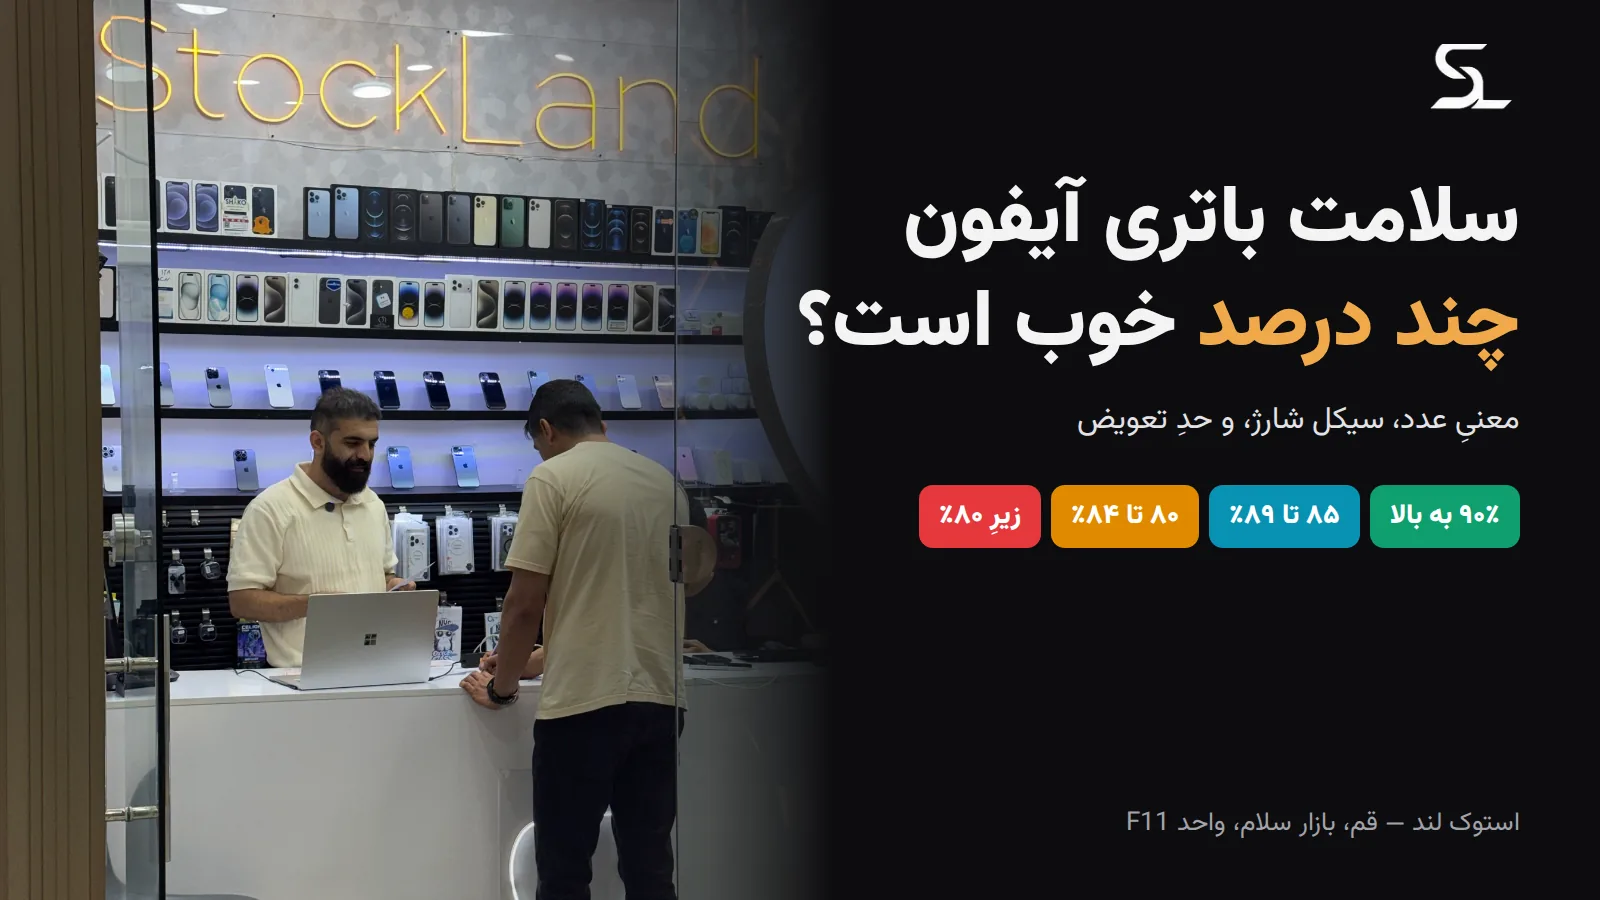
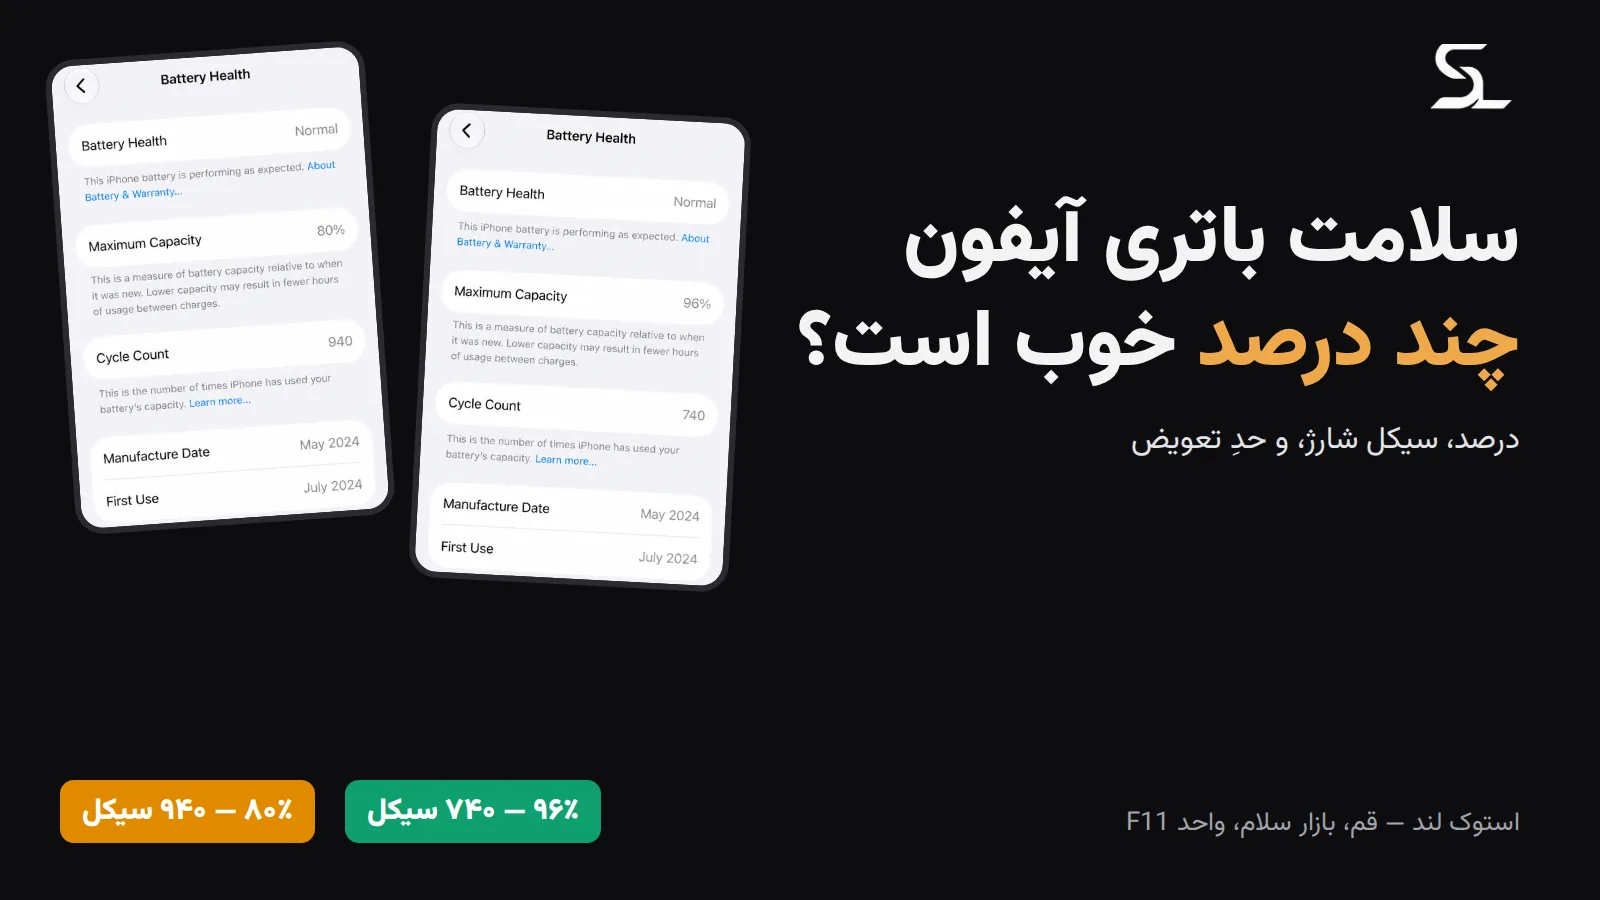
stland-home 1.72.1: عکسهای تازهی مقالهی سلامت باتری
Claude-Session: https://claude.ai/code/session_01BaUq8HkURtmYMZrPR7y34Y

diff --git a/wp-content/plugins/stland-home/includes/posts.php b/wp-content/plugins/stland-home/includes/posts.php
@@ -113,7 +113,8 @@ const STLH_POSTS = [
 			'model'   => [ 'file' => 'iphone-sealed-active-model.webp', 'alt' => 'حرف اول شماره مدل آیفون؛ M نو، F بازسازیشده، N جایگزین، P سفارشی' ],
 		],
 	],
-	// برنامهی محتوا، روزِ ۵ (۲۸ مهر ۱۴۰۵، یک روز زودتر؛ روزِ ۴ بازبینیِ نقشهی گوگل بود): دو عکسِ فروشگاه از صاحب فروشگاه
+	// برنامهی محتوا، روزِ ۵ (۲۸ مهر ۱۴۰۵، یک روز زودتر؛ روزِ ۴ بازبینیِ نقشهی گوگل بود). عکسها (همان روز، صاحب فروشگاه: «عکسها
+	// ارتباطی ندارند»): دو صفحهی «سلامت باتری» (۹۶٪ و ۸۰٪ با سیکل) و دفترچهی سلامت با باتریِ تعویضی، بهجای دو عکسِ فروشگاه از صاحب فروشگاه
 	// («از تصویر استفاده کن، بلر نکن» — رضایتِ خودش؛ مشتری پشت به دوربین است) و جدولِ درصدها که خودمان ساختیم. عددهای
 	// فنی (مرزِ ۸۰٪، ۵۰۰ و ۱۰۰۰ سیکل) از راهنمای اپل؛ ادعای فروشگاه فقط آنچه در دفترچهی سلامت و کارت دیده میشود.
 	'iphone-battery-health' => [
@@ -127,10 +128,10 @@ const STLH_POSTS = [
 			'desc'  => 'سلامت باتری آیفون چند درصد خوب است؟ ۹۰٪ به بالا عالی، ۸۵ تا ۸۹ خوب، ۸۰ تا ۸۴ قابل قبول، زیر ۸۰٪ تعویض. سیکل شارژ، باتری تعویضی و نکتههای خرید کارکرده.',
 			'kw'    => 'سلامت باتری آیفون',
 		],
-		'thumb'    => [ 'file' => 'iphone-battery-health-hero.webp', 'alt' => 'سلامت باتری آیفون چند درصد خوب است؛ استوک لند قم' ],
+		'thumb'    => [ 'file' => 'iphone-battery-health-hero.webp', 'alt' => 'سلامت باتری آیفون ۹۶ و ۸۰ درصد با سیکل شارژ در تنظیمات' ],
 		'images'   => [
 			'scale' => [ 'file' => 'iphone-battery-health-scale.webp', 'alt' => 'جدول سلامت باتری آیفون؛ ۹۰ به بالا عالی تا زیر ۸۰ تعویض' ],
-			'shelf' => [ 'file' => 'iphone-battery-health-shelf.webp', 'alt' => 'آیفونهای کارکرده با درصد سلامت باتری در استوک لند' ],
+			'shelf' => [ 'file' => 'iphone-battery-health-shelf.webp', 'alt' => 'باتری تعویضی و قطعه ناشناخته در دفترچه سلامت آیفون کارکرده' ],
 		],
 	],
 	// برنامهی محتوا، روزِ ۳ (۲۷ مهر ۱۴۰۵): شرایطِ معاوضه از پاسخِ صاحب فروشگاه (هر برند، ایرادِ قطعه مشکلی نیست به شرطِ

diff --git a/wp-content/plugins/stland-home/stland-home.php b/wp-content/plugins/stland-home/stland-home.php
@@ -2,7 +2,7 @@
 /**
  * Plugin Name:       StockLand Home
  * Description:       صفحه اصلی داینامیک استوک لند — بنر، دستهها، ردیف محصولات، پیشنهاد ویژه، شبکهها، سوالات متداول و مقالات. شورتکد: [stl_home]
- * Version:           1.72.0
+ * Version:           1.72.1
  * Requires at least: 6.3
  * Requires PHP:      8.1
  * Requires Plugins:  woocommerce
@@ -11,7 +11,7 @@
 
 defined( 'ABSPATH' ) || exit;
 
-define( 'STLH_VER', '1.72.0' );
+define( 'STLH_VER', '1.72.1' );
 // نسخهی قرارداد با حسابداری (contract/card-meta.json) — پنلِ سلامتِ حسابداری با آن میسنجد
 define( 'STLH_CONTRACT', 5 );
 define( 'STLH_DIR', plugin_dir_path( __FILE__ ) );

diff --git a/تغییرات.md b/تغییرات.md
@@ -132,3 +132,4 @@
 | ۱۴۰۵/۰۷/۲۸ | `stland-home` ۱.۷۱.۰: مقالهی روزِ ۵ «سلامت باتری آیفون چند درصد خوب است؟» (`iphone-battery-health`): جدولِ درصدها (۹۰+ عالی، ۸۵–۸۹ خوب، ۸۰–۸۴ قابل قبول، زیرِ ۸۰ تعویض)، سیکل شارژ، باتریِ تعویضی و «قطعهی ناشناخته»، نکتههای خریدِ کارکرده و نگهداری؛ ۵ پرسشِ متداول؛ لینک به «تست آیفون کارکرده»، «معاوضه آیفون در قم»، دستهی کارکرده و لیست | برنامهی محتوا؛ صاحب فروشگاه دو عکسِ فروشگاه داد و گفت «بلر نکن، عکسِ دیگر لازم بود خودت بساز» — جدولِ درصدها ساخته شد | منتظر بهروزرسانیِ خودکار |
 | ۱۴۰۵/۰۷/۲۸ | `stland-home` ۱.۷۲.۰: مقالهی روزِ ۶ «آکبند، اکتیو، ناتاکتیو و ریفربیش» (`iphone-sealed-active`): معنیِ هر وضعیت، اثرش بر ضمانت، تشخیص با حرفِ اولِ شمارهی مدل (M/F/N/P)، تاریخِ ضمانت و سابقهی قطعات؛ ۵ پرسشِ متداول؛ دو عکسِ قابها برای مقالهی لوازم در `docs/photos/` | صاحب فروشگاه چهار عکس فرستاد؛ یکی تکراریِ دیروز بود و کنار گذاشته شد | منتظر بهروزرسانیِ خودکار |
 | ۱۴۰۵/۰۷/۲۸ | مستندات: تصمیمِ زمانبندیِ برنامهی محتوا — روزهای ۵ و ۶ منتشرشده میمانند، ۲۹ و ۳۰ مهر مقاله ندارد، از ۱ آبان طبقِ تقویم؛ هیچ مقالهای زودتر از روزِ خودش نه | دو مقاله زودتر از برنامه منتشر شده بود | — |
+| ۱۴۰۵/۰۷/۲۸ | `stland-home` ۱.۷۲.۱: عکسهای مقالهی «سلامت باتری آیفون» عوض شد — عکسِ اصلی: دو صفحهی سلامتِ باتری (۹۶٪ با ۷۴۰ سیکل و ۸۰٪ با ۹۴۰ سیکل)؛ داخلِ متن: دفترچهی سلامت با باتریِ تعویضی و «قطعهی ناشناخته» | صاحب فروشگاه: عکسهای فروشگاه با موضوعِ مقاله ارتباطی نداشت؛ سه عکسِ تازه فرستاد | منتظر بهروزرسانیِ خودکار |
